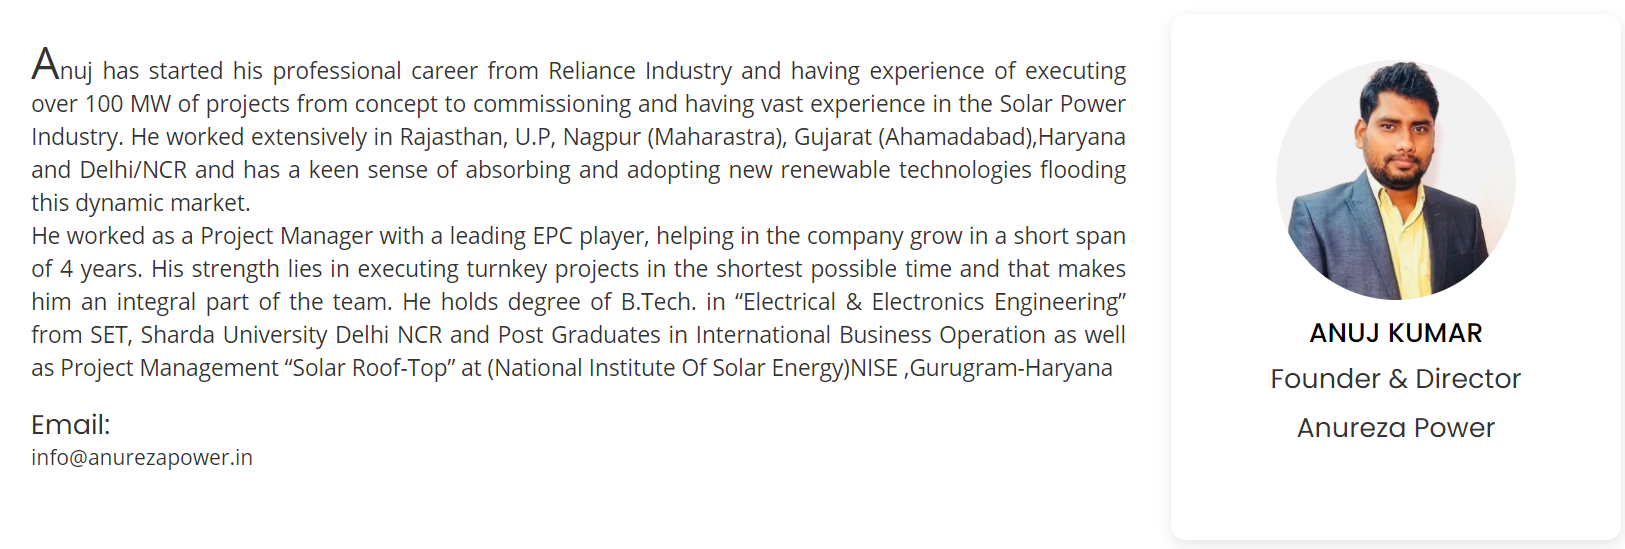
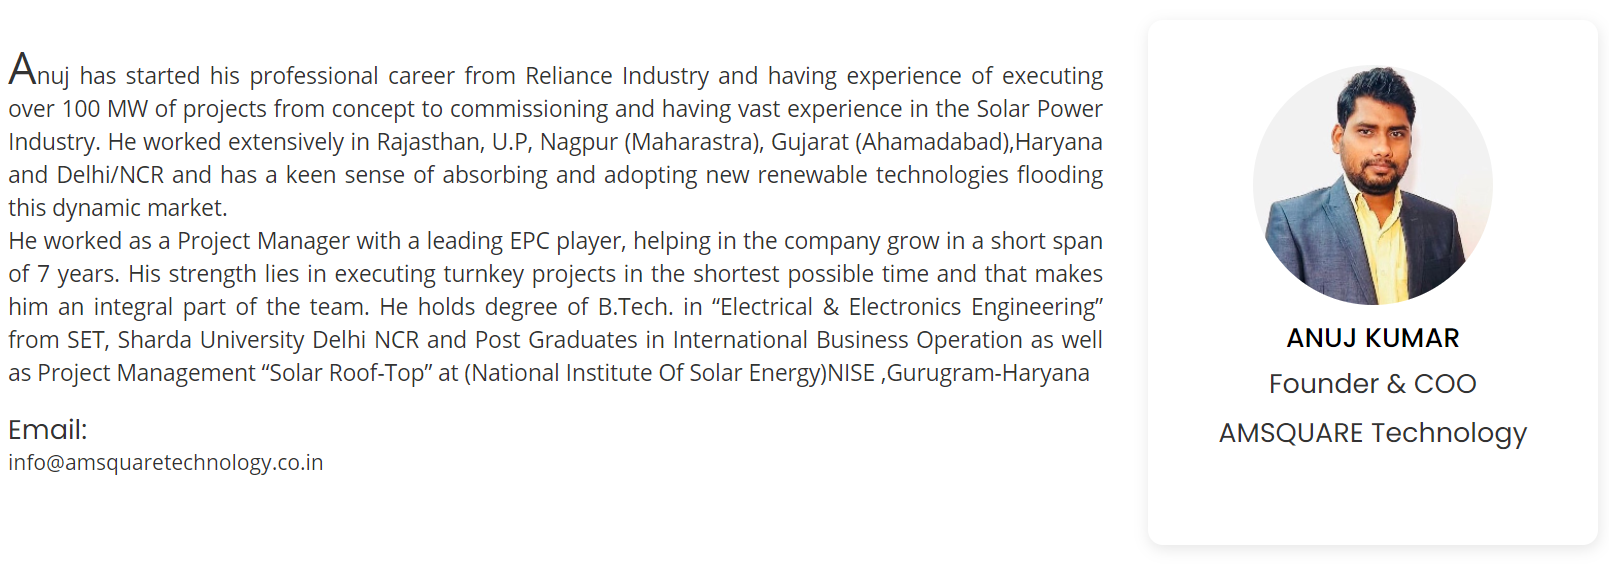
changes

diff --git a/index.html b/index.html
@@ -163,7 +163,7 @@
                     <p>An enthusiastic engineer who is a self-starter and capable to use my skills for the betterment of the organization.
                          A Bachelor's degree in Electrical Engineering has enhanced my proficiency in developing Solar and Electrical Industry.Always
                          forward to work in a competitive environment that enhances overall learning. </p>
-                    <p>Currently I am working on my startup as a Co-founder of <a href="http://amsquaretechnology.co.in/"> Anureza Power Pvt. Ltd</a> <br>
+                    <p>Currently I am working on my startup as a Founder of <a href="http://amsquaretechnology.co.in/"> Amsquare Technology Pvt. Ltd</a> <br>
                         To summarize, I have been working in Power Sector (Thermal & Solar PV Rooftop & Ground Mounted),5+ years experience now; Expertise in End to End Execution of Solar Projects; Apart from this, an adventure seeker, & love to travel New-Places... </p>
                    
                     <div class="row">
@@ -493,6 +493,15 @@
         <div class="row">
             <div class="col-md-6">
                 <ul class="resumes">
+                    <li class="resume-item expr">
+                        <a href="http://amsquaretechnology.co.in/index.html">
+                        <img src="images/amsquare.png" height="150" width="150" ></a>
+                        <h3 style="font-weight: bold;">Founder</h3>
+                        <h4>Amsquare Technology Pvt.Ltd</h4>
+                        <h5>Jan 2019 - Present</h5>
+                        
+                        <!-- <p>The most basic and important language for any beginner in Coding which i started learning in my 1st year of B.tech and still learning</p> -->
+                    </li>
                     <li class="resume-item expr">
                         <img src="images/Circular.png" height="100" width="100" >
                         <h3 style="font-weight: bold;">Co-Founder & Director</h3>
